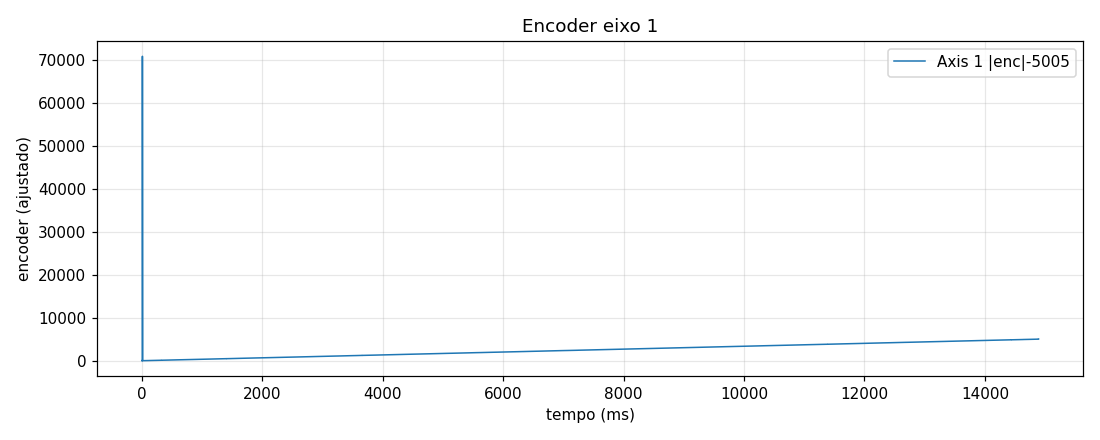
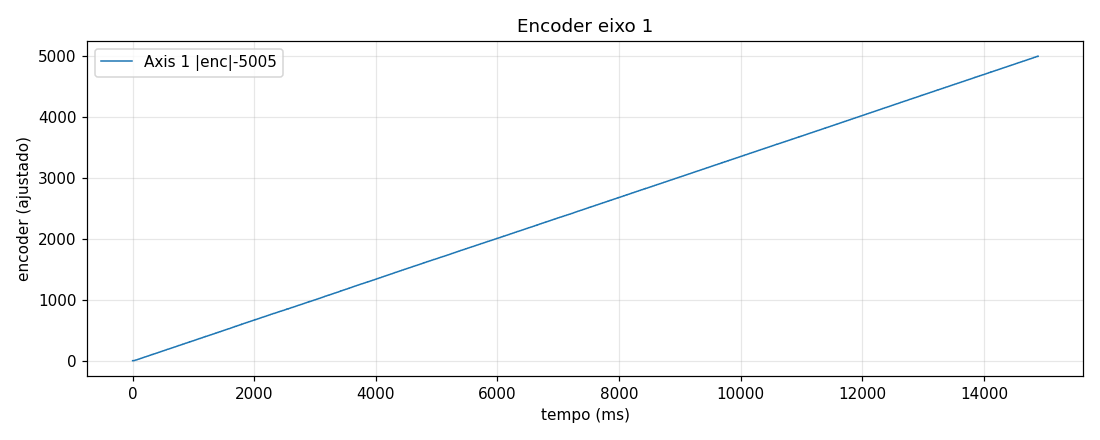
Adicionando graficos 1

diff --git a/plot_swv_csv.py b/plot_swv_csv.py
@@ -30,7 +30,7 @@ from typing import Dict, List, Tuple
 
 def parse_args() -> argparse.Namespace:
     p = argparse.ArgumentParser(description="Plot encoder telemetry from SWV/ITM dump")
-    p.add_argument("--file", "-f", default="SWV_ITM_Data_Console_1.txt",
+    p.add_argument("--file", "-f", default="CNC_Controller\SWV_export\SWV_ITM_Data_Console_1.txt",
                    help="Input text file with CSV lines (default: SWV_ITM_Data_Console_1.txt)")
     p.add_argument("--outdir", "-o", default="plots",
                    help="Directory to save plots (default: plots)")
@@ -40,6 +40,8 @@ def parse_args() -> argparse.Namespace:
     p.add_argument("--title", default=None,
                    help="Optional title prefix for figures")
     p.add_argument("--dpi", type=int, default=110, help="PNG DPI (default: 110)")
+    p.add_argument("--print-head", type=int, default=0,
+                   help="Print first N encoder samples per axis (0=disabled)")
     return p.parse_args()
 
 
@@ -54,6 +56,7 @@ def is_debug_line(s: str) -> bool:
 
 def load_rows(path: str) -> List[Tuple[int,int,int,int]]:
     rows: List[Tuple[int,int,int,int]] = []
+    
     with open(path, "r", encoding="utf-8", errors="ignore") as fh:
         for line in fh:
             s = line.strip()
@@ -68,6 +71,7 @@ def load_rows(path: str) -> List[Tuple[int,int,int,int]]:
                 t_ms = int(parts[1], 10)
                 pos = int(parts[2], 10)
                 steps = int(parts[3], 10)
+
             except ValueError:
                 continue
             rows.append((axis, t_ms, pos, steps))
@@ -76,8 +80,10 @@ def load_rows(path: str) -> List[Tuple[int,int,int,int]]:
 
 def group_by_axis(rows: List[Tuple[int,int,int,int]]):
     axes: Dict[int, List[Tuple[int,int,int]]] = {}
+    
     for axis, t_ms, pos, steps in rows:
         axes.setdefault(axis, []).append((t_ms, pos, steps))
+        
     # sort by time
     for a in axes:
         axes[a].sort(key=lambda x: x[0])
@@ -137,6 +143,17 @@ def plot_axis(ax_id: int, series: List[Tuple[int,int,int]], offset: int, outdir:
     return outpath
 
 
+def print_head(ax_id: int, series: List[Tuple[int,int,int]], offset: int, n: int) -> None:
+    k = min(max(n, 0), len(series))
+    if k <= 0:
+        return
+    print(f"Axis {ax_id} - first {k} samples (t_ms, enc_raw, enc_adj, steps):")
+    for i in range(k):
+        t, enc_raw, steps = series[i]
+        enc_adj = max(abs(enc_raw) - offset, 0)
+        print(f"  [{i:03d}] t={t} ms  enc_raw={enc_raw}  enc_adj={enc_adj}  steps={steps}")
+
+
 def main() -> int:
     args = parse_args()
     rows = load_rows(args.file)
@@ -151,6 +168,10 @@ def main() -> int:
     print("Validation summary (strict 4-column rows only):")
     for ax_id, series in sorted(axes.items()):
         print("  " + summarize_axis(ax_id, series, off_map.get(ax_id, args.offsets[0])))
+    # Optional debug print of the first N samples per axis
+    if args.print_head and args.print_head > 0:
+        for ax_id, series in sorted(axes.items()):
+            print_head(ax_id, series, off_map.get(ax_id, args.offsets[0]), args.print_head)
     outputs: List[str] = []
     for ax_id, series in sorted(axes.items()):
         try:
